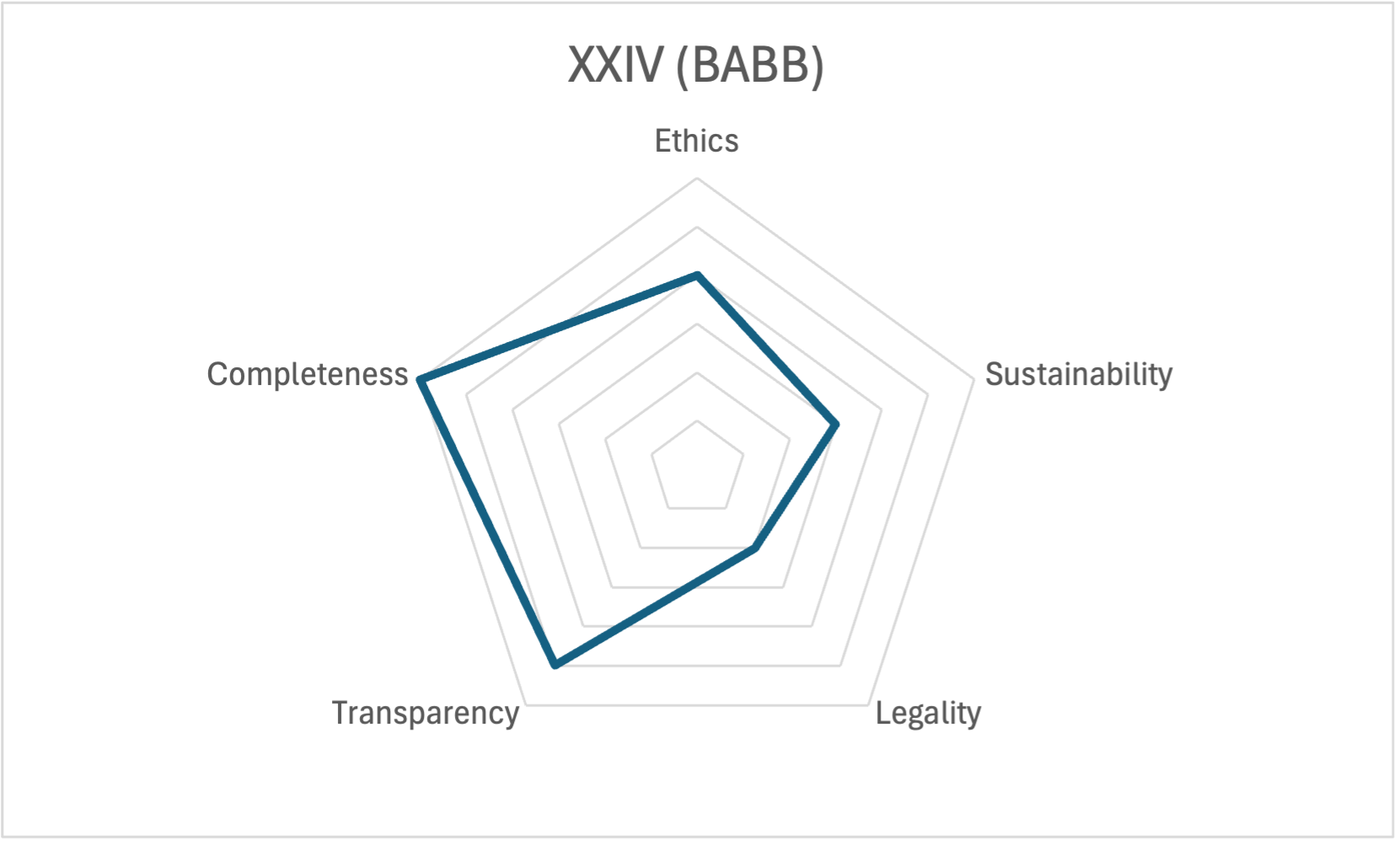
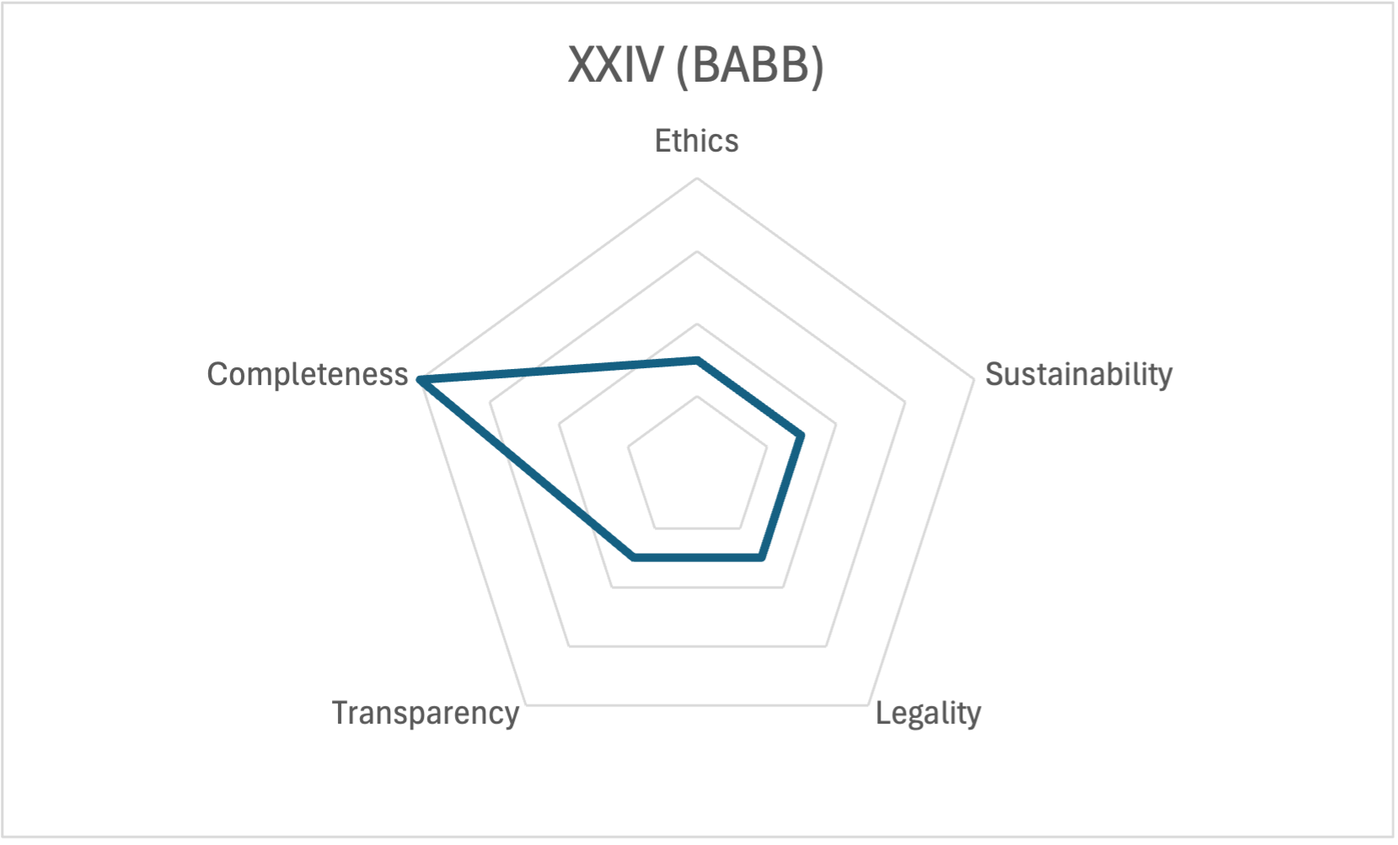
Add files via upload

Changed region(s): [[0.3074, 0.2782, 0.6456, 0.8036]]

diff --git a/index.html b/index.html
@@ -22,9 +22,10 @@ A major violent conflict has developed, which is mediated through the world wide
 
 You are an employee at the Netherlands Institute for War, Holocaust and Genocide Studies (NIOD) and have been tasked with setting up a collection of web-based materials related to this conflict.
 
-In this simulation, you get to make strategic decisions around the scope, design and organization of the web archive. 
+In this simulation, you get to make strategic decisions around the scope, design and organization of the web archive. The point of this simulation is not to create the perfect or complete archive, but to showcase how different decisions can alter what type of collection is created and what consequences that can have for the institution and its values. 
 
-These decisions do not merely determine what is preserved, but shape what kind of archive is created. Your choices directly affect the following institutional values: 
+Your choices therefore affect the following institutional values: 
+
 
 * (text-colour:red)[Ethics]
 * (text-colour:orange)[Sustainability] 
@@ -57,6 +58,7 @@ Based on these conflicting precedents, you have to start determining a scope for
 * Wider variety 
 * Outside of legal framework + less manageable
 </tw-passagedata><tw-passagedata pid="3" name="II" tags="" position="350,350" size="100,100">(set: $sustainability to $sustainability + 2) (set: $legality to $legality + 2) (set: $completeness to $completeness - 2)
+
 (text-colour:orange)[Sustainability:] +2, (text-colour:yellow)[Legality:] +2, (text-colour:blue)[Completeness:] -2
 
 (text-colour:red)[Ethics:] $ethics, (text-colour:orange)[Sustainability:] $sustainability, (text-colour:yellow)[Legality:] $legality, (text-colour:green)[Transparency:] $transparency, (text-colour:blue)[Completeness:] $completeness
@@ -64,17 +66,18 @@ Based on these conflicting precedents, you have to start determining a scope for
 &#39;&#39;//Collection method//&#39;&#39;
 
 You have chosen a cautious and institutionally aligned approach. Your web-archive is already beginning to take shape: you have prioritized sustainability and adherence to legal frameworks and are selective about what type of narratives and voices are to be included.  
-
 Now that you have set your scope, it is time to start collecting. You have access to the following options: 
 
 
-[[A: You choose to set up a web-crawler that tracks, captures and preserves the websites of the government and news-organizations that you wish to archive. The crawler captures relevant webpages based on keywords used within a predetermined period.  -&gt;III]]  
+[[A: You choose to set up a web-crawler that tracks, captures and preserves the websites  you wish to archive. The crawler captures webpages based on keywords used within a predetermined period. -&gt;III]]  
 * Cost-effective (less human labor)
 * Possible blind spots and missing out on materials
+* Black-box dilemma 
 
-[[B: You choose to make a curated collection, which is decided upon by human actors within your department. -&gt;X]]
+[[B: You choose to make a curated collection, which is decided upon by human actors within your department, who document the process in the form of a data envelope -&gt;X]]
 * Requires structured workflows, possible blind spots and biases
 * More curatorial selectivity and adaptability
+* 
 
 
 
@@ -94,26 +97,26 @@ You are however more vulnerable to legal threats due to the precarious position 
 
 You are now faced with a decision of how you want to collect these materials. 
 
-[[A: You choose to emphasize a technical method by developing a web-crawler that captures websites you wish to archive. The crawler captures based on keywords used on predetermined website within a predetermined period.-&gt;XVIII]]
-* Cost-effective (Less human labor)
-* Possible blind spots &amp; possibly missing out on materials
 
-[[B: You choose to emphasize a human-centered approach by establishing a curated collection, which is decide upon by human actors within you department.-&gt;XXV]]
-* Requires structured workflows, subject to blind spots and biases
-* More curatioral selectivity and adaptability
-</tw-passagedata><tw-passagedata pid="5" name="III" tags="" position="150,325" size="100,100">(set: $sustainability to $sustainability +1) (set: $transparency to $transparency +1) (set: $completeness to $completeness -1)
+[[A: You choose to set up a web-crawler that tracks, captures and preserves the websites  you wish to archive. The crawler captures relevant webpages based on keywords used within a predetermined period.  -&gt;XVIII]]  
+* Cost-effective (less human labor)
+* Possible blind spots and missing out on materials
+* Black-box dilemma 
 
-(text-colour:orange)[Sustainability:] +1, (text-colour:green)[Transparency:] +1 (text-colour:blue)[Completeness:] -1
+[[B: You choose to make a curated collection, which is decided upon by human actors within your department, who document the process in the form of a data envelope -&gt;XXV]]
+* Requires structured workflows, possible blind spots and biases
+* More curatorial selectivity and adaptability
+* Transparency</tw-passagedata><tw-passagedata pid="5" name="III" tags="" position="150,325" size="100,100">(set: $ethics to $ethics -1) (set: $sustainability to $sustainability +1) (set: $transparency to $transparency -1) (set: $completeness to $completeness +1)
+
+(text-colour:red)[ethics] -1, (text-colour:orange)[Sustainability:] +1, (text-colour:green)[Transparency:] -1 (text-colour:blue)[Completeness:] +1
 
 (text-colour:red)[Ethics:] $ethics, (text-colour:orange)[Sustainability:] $sustainability, (text-colour:yellow)[Legality:] $legality, (text-colour:green)[Transparency:] $transparency, (text-colour:blue)[Completeness:] $completeness
 
 &#39;&#39;//Who shapes the archive?//&#39;&#39;
 
-You have chosen to set up a web-crawler that captures relevant webpages. The collection process is now systematic, rule-based and largely automated. 
+You have chosen to set up a web-crawler that captures relevant webpages. The collection process is now systematic, rule-based and largely automated. (fast-paced) 
 
 However, webpages are continually updated, deleted, or disappear behind paywalls in between crawls. You are unable to capture every version or change made. 
-
-Yet, you are able to document your choices very well, thereby ameliorating transparency in the choices you have made. Equally, due to the systematic method of acquisition the manageability and sustainability of your collection improves. 
 
 The next question also relates to the institutional shape of your collection, namely how will the collection grow over time, and who gets to help shape it? 
 
@@ -126,9 +129,9 @@ The next question also relates to the institutional shape of your collection, na
 * More inclusive &amp; context-rich, harder to sustainably manage
 
  
-</tw-passagedata><tw-passagedata pid="6" name="X" tags="" position="525,325" size="100,100">(set: $ethics to $ethics +1) (set: $sustainability to $sustainability -1) (set: $transparency to $transparency -1) (set: $completeness to $completeness +1)
+</tw-passagedata><tw-passagedata pid="6" name="X" tags="" position="525,325" size="100,100">(set: $ethics to $ethics +1) (set: $sustainability to $sustainability -1) (set: $transparency to $transparency +1) (set: $completeness to $completeness -1)
 
-(text-colour:red)[Ethics:] +1, (text-colour:orange)[Sustainability:] -1, (text-colour:green)[Transparency:] -1, (text-colour:blue)[Completeness] +1 
+(text-colour:red)[Ethics:] +1, (text-colour:orange)[Sustainability:] -1, (text-colour:green)[Transparency:] +1, (text-colour:blue)[Completeness] -1 
 
 (text-colour:red)[Ethics:] $ethics, (text-colour:orange)[Sustainability:] $sustainability, (text-colour:yellow)[Legality:] $legality, (text-colour:green)[Transparency:] $transparency, (text-colour:blue)[Completeness:] $completeness
 
@@ -149,11 +152,11 @@ Your decisions have led you to a collection that foregrounds openness and accuou
 
 Yet, your collection remains somewhat vulnerable to legal threats. Additionally, there is little representational variety within your collection. 
 
-Now that you have come to the end of the simulation, how do you feel about the archive you have created? Would you have made different decisions, or are there other possibilities left unexplored? 
+Now that you have come to the end of the simulation, how do you feel about the archive you have created? Would you have made different decisions, or are there other possibilities left unexplored? Do you agree with your scores, or would you have valued your decisions differently? 
 
-&lt;img class=&quot;tw-center&quot; src=&quot;graphs/VIII.png&quot;&gt;</tw-passagedata><tw-passagedata pid="8" name="IV" tags="" position="150,175" size="100,100">(set: $ethics to $ethics -1)(set: $sustainability to $sustainability +1)(set: $legality to $legality +1)(set: $completeness to $completeness +1)
+&lt;img class=&quot;tw-center&quot; src=&quot;graphs/VIII.png&quot;&gt;</tw-passagedata><tw-passagedata pid="8" name="IV" tags="" position="175,175" size="100,100">(set: $ethics to $ethics -1)(set: $sustainability to $sustainability +1) (set: $completeness to $completeness +1)
 
-(text-colour:red)[Ethics:] -1, (text-colour:orange)[Sustainability:] +1, (text-colour:yellow)[Legality:] +1, (text-colour:blue)[Completeness:] +1
+(text-colour:red)[Ethics:] -1, (text-colour:orange)[Sustainability:] +1, (text-colour:blue)[Completeness:] +1
 
 (text-colour:red)[Ethics:] $ethics, (text-colour:orange)[Sustainability:] $sustainability, (text-colour:yellow)[Legality:] $legality, (text-colour:green)[Transparency:] $transparency, (text-colour:blue)[Completeness:] $completeness
 
@@ -163,39 +166,39 @@ You have chosen to build connections with other institutions that can meaningful
 
 Your final decision is related to the accessibility and participatory practices that you wish to implement:
 
-[[A: You make the collection freely available online and focus your descriptive work on contextualizing the content itself.-&gt;V]]
+[[A: You make the collection freely available online. -&gt;V]]
 * High visibility and societal impact
 * Take on full legal, ethical and political responsibility for access and re-use
 * Manageable through contextualization of content
 
-[[B: You limit access to the archive through a request system, whereby users have to  motivate their interest in gaining access. You focus your documentation on how and why the collection was built.-&gt;VI]]
+[[B: You limit access to the archive through a request system, whereby users motivate their interest in gaining access. -&gt;VI]]
 * Decreases legal, ethical and political complaints
 * Restricts ease of access, hinders visibility
-* Transparent in selection and acquisition strategies
-</tw-passagedata><tw-passagedata pid="9" name="VII" tags="" position="300,175" size="100,100">(set: $ethics to $ethics +1) (set: $sustainability to $sustainability -1) (set: $legality to $legality -1) (set: $transparency to $transparency +1) (set: $completeness to $completeness +1) 
 
-(text-colour:red)[Ethics:] +1, (text-colour:orange)[Sustainability:] -1, (text-colour:yellow)[Legality:] -1, (text-colour:green)[Transparency:] +1, (text-colour:blue)[Completeness:] +1
+</tw-passagedata><tw-passagedata pid="9" name="VII" tags="" position="350,225" size="100,100">(set: $ethics to $ethics +1) (set: $sustainability to $sustainability -1) (set: $transparency to $transparency +1) (set: $completeness to $completeness +1) 
+
+(text-colour:red)[Ethics:] +1, (text-colour:orange)[Sustainability:] -1, (text-colour:green)[Transparency:] +1, (text-colour:blue)[Completeness:] +1
 
 (text-colour:red)[Ethics:] $ethics, (text-colour:orange)[Sustainability:] $sustainability, (text-colour:yellow)[Legality:] $legality, (text-colour:green)[Transparency:] $transparency, (text-colour:blue)[Completeness:] $completeness 
 
 //&#39;&#39;Accessibility &amp; Metadata&#39;&#39;//
 
-You have elected to place more of an emphasis on participatory methods. You try your hannd at organizing workshops and interviews with communitiy members that are affected by the conflict. 
+You have elected to place more of an emphasis on participatory methods. You try your hand at organizing workshops and interviews with community members that are affected by the conflict. 
 
 While you have taken on more ethical responsibility in terms of providing a variety of voices that help shape the archive, the collection might become harder to manage due to the amount of content that you would have to contextualize.
 
 You are now faced with your last decision, which relates to your collection’s accessibility and metadata descriptions.
 
 
-[[A: You make the collection freely available online and focus your descriptive work on contextualizing the content itself. -&gt;VIII]]
+[[A: You make the collection freely available online. -&gt;VIII]]
 * High visibility and societal impact
 * Take on full legal, ethical and political responsibility for access and re-use
 * Manageable through contextualization of content
 
-[[B: You limit access to the archive through a request system, whereby users motivate their interest in gaining access. You focus your documentation on how and why the collection was built.-&gt;IX]]
+[[B: You limit access to the archive through a request system, whereby users motivate their interest in gaining access. -&gt;IX]]
 * Decreases legal, ethical and political complaints
 * Restricts ease of access, hinders visibility
-* Transparent in selection and acquisition strategies</tw-passagedata><tw-passagedata pid="10" name="V" tags="" position="25,175" size="100,100">(set: $ethics to $ethics +1) (set: $sustainability to $sustainability -1) (set: $legality to $legality -1) (set: $transparency to $transparency +1)
+* </tw-passagedata><tw-passagedata pid="10" name="V" tags="" position="25,175" size="100,100">(set: $ethics to $ethics +1) (set: $sustainability to $sustainability -1) (set: $legality to $legality -1) (set: $transparency to $transparency +1)
 
 (text-colour:red)[Ethics:] +1, (text-colour:orange)[Sustainability:] -1, (text-colour:yellow)[Legality:] -1, (text-colour:green)[Transparency:] +1
 
@@ -233,31 +236,42 @@ You have built an archive grounded in legal caution and institutional order. Whi
 
 Now that you have come to the end of the simulation, how do you feel about the archive you have created? Would you have made different decisions, or are there other possibilities left unexplored? 
 
-&lt;img class=&quot;tw-center&quot; src=&quot;graphs/VI.png&quot;&gt;</tw-passagedata><tw-passagedata pid="13" name="XI" tags="" position="550,150" size="100,100">(set: $ethics to $ethics -1)(set: $sustainability to $sustainability +1)(set: $legality to $legality +1)(set: $completeness to $completeness +1)
+&lt;img class=&quot;tw-center&quot; src=&quot;graphs/VI.png&quot;&gt;</tw-passagedata><tw-passagedata pid="13" name="XI" tags="" position="550,150" size="100,100">(set: $ethics to $ethics -1)(set: $sustainability to $sustainability +1) (set: $completeness to $completeness +1)
 
-(text-colour:red)[Ethics:] -1, (text-colour:orange)[Sustainability:] +1, (text-colour:yellow)[Legality:] +1, (text-colour:blue)[Completeness:] +1
+(text-colour:red)[Ethics:] -1, (text-colour:orange)[Sustainability:] +1, (text-colour:blue)[Completeness:] +1
 
 (text-colour:red)[Ethics:] $ethics, (text-colour:orange)[Sustainability:] $sustainability, (text-colour:yellow)[Legality:] $legality, (text-colour:green)[Transparency:] $transparency, (text-colour:blue)[Completeness:] $completeness
 
 //&#39;&#39;Bold Text&#39;&#39;//
 
-[[A: -&gt;XII]]
 
+[[A: You make the collection freely available online. -&gt;XII]]
+* High visibility and societal impact
+* Take on full legal, ethical and political responsibility for access and re-use
+* Manageable through contextualization of content
 
-[[B -&gt;XIII]]
-</tw-passagedata><tw-passagedata pid="14" name="XIV" tags="" position="675,375" size="100,100">(set: $ethics to $ethics +1)(set: $sustainability to $sustainability -1)(set: $legality to $legality -1)(set: $transparency to $transparency +1)(set: $completeness to $completeness +1)
+[[B: You limit access to the archive through a request system, whereby users motivate their interest in gaining access. -&gt;XIII]]
+* Decreases legal, ethical and political complaints
+* Restricts ease of access, hinders visibility
+* </tw-passagedata><tw-passagedata pid="14" name="XIV" tags="" position="675,375" size="100,100">(set: $ethics to $ethics +1) (set: $sustainability to $sustainability -1) (set: $transparency to $transparency +1) (set: $completeness to $completeness +1)
 
-(text-colour:red)[Ethics:] +1, (text-colour:orange)[Sustainability:] -1, (text-colour:yellow)[Legality:] -1, (text-colour:green)[Transparency:] +1, (text-colour:blue)[Completeness:] +1. 
+(text-colour:red)[Ethics:] +1, (text-colour:orange)[Sustainability:] -1, (text-colour:green)[Transparency:] +1, (text-colour:blue)[Completeness:] +1. 
 
 
 (text-colour:red)[Ethics:] $ethics, (text-colour:orange)[Sustainability:] $sustainability, (text-colour:yellow)[Legality:] $legality, (text-colour:green)[Transparency:] $transparency, (text-colour:blue)[Completeness:] $completeness 
 
 //&#39;&#39;Bold Text&#39;&#39;//
 
-[[A -&gt;XV]]
 
-[[B -&gt;XVI]]
-</tw-passagedata><tw-passagedata pid="15" name="XV" tags="" position="850,325" size="100,100">(set: $ethics to $ethics +1) (set: $sustainability to $sustainability -1) (set: $legality to $legality -1) (set: $transparency to $transparency +1)
+[[A: You make the collection freely available online. -&gt;XV]]
+* High visibility and societal impact
+* Take on full legal, ethical and political responsibility for access and re-use
+* Manageable through contextualization of content
+
+[[B: You limit access to the archive through a request system, whereby users motivate their interest in gaining access. -&gt;XVI]]
+* Decreases legal, ethical and political complaints
+* Restricts ease of access, hinders visibility
+* </tw-passagedata><tw-passagedata pid="15" name="XV" tags="" position="850,325" size="100,100">(set: $ethics to $ethics +1) (set: $sustainability to $sustainability -1) (set: $legality to $legality -1) (set: $transparency to $transparency +1)
 
 (text-colour:red)[Ethics:] +1, (text-colour:orange)[Sustainability:] -1, (text-colour:yellow)[Legality:] -1, (text-colour:green)[Transparency:] +1
 
@@ -291,9 +305,9 @@ Now that you have come to the end of the simulation, how do you feel about the a
 
 Now that you have come to the end of the simulation, how do you feel about the archive you have created? Would you have made different decisions, or are there other possibilities left unexplored? 
 
-&lt;img class=&quot;tw-center&quot; src=&quot;graphs/XIII.png&quot;&gt;</tw-passagedata><tw-passagedata pid="18" name="XVIII" tags="" position="450,725" size="100,100">(set: $sustainability to $sustainability +1) (set: $transparency to $transparency +1) (set: $completeness to $completeness -1)
+&lt;img class=&quot;tw-center&quot; src=&quot;graphs/XIII.png&quot;&gt;</tw-passagedata><tw-passagedata pid="18" name="XVIII" tags="" position="450,725" size="100,100">(set: $ethics to $ethics -1) (set: $sustainability to $sustainability +1) (set: $transparency to $transparency -1) (set: $completeness to $completeness +1) 
 
-(text-colour:orange)[Sustainability:] +1, (text-colour:green)[Transparency:] +1 (text-colour:blue)[Completeness:] -1
+(text-colour:red)[Ethics:] -1, (text-colour:orange)[Sustainability:] +1, (text-colour:green)[Transparency:] -1 (text-colour:blue)[Completeness:] +1
 
 (text-colour:red)[Ethics:] $ethics, (text-colour:orange)[Sustainability:] $sustainability, (text-colour:yellow)[Legality:] $legality, (text-colour:green)[Transparency:] $transparency, (text-colour:blue)[Completeness:] $completeness
 
@@ -316,9 +330,9 @@ You are now faced with how your collection is expanded upon and most noteably, w
 * Inviting people for workshops &amp; interviews
 * More inclusive &amp; context-rich, harder to sustainably manage
 
-</tw-passagedata><tw-passagedata pid="19" name="XXV" tags="" position="675,625" size="100,100">(set: $ethics to $ethics +1) (set: $sustainability to $sustainability -1) (set: $transparency to $transparency -1) (set: $completeness to $completeness +1)
+</tw-passagedata><tw-passagedata pid="19" name="XXV" tags="" position="675,625" size="100,100">(set: $ethics to $ethics +1) (set: $sustainability to $sustainability -1) (set: $transparency to $transparency +1) (set: $completeness to $completeness -1)
 
-(text-colour:red)[Ethics:] +1, (text-colour:orange)[Sustainability:] -1, (text-colour:green)[Transparency:] -1, (text-colour:blue)[Completeness] +1 
+(text-colour:red)[Ethics:] +1, (text-colour:orange)[Sustainability:] -1, (text-colour:green)[Transparency:] +1, (text-colour:blue)[Completeness] -11 
 
 (text-colour:red)[Ethics:] $ethics, (text-colour:orange)[Sustainability:] $sustainability, (text-colour:yellow)[Legality:] $legality, (text-colour:green)[Transparency:] $transparency, (text-colour:blue)[Completeness:] $completeness
 
@@ -328,36 +342,9 @@ You are now faced with how your collection is expanded upon and most noteably, w
 [[A -&gt;XXVI]]
 
 [[B -&gt;XXIX]]
-</tw-passagedata><tw-passagedata pid="20" name="XIX" tags="" position="375,875" size="100,100">(set: $ethics to $ethics -1)(set: $sustainability to $sustainability +1)(set: $legality to $legality +1)(set: $completeness to $completeness +1)
+</tw-passagedata><tw-passagedata pid="20" name="XIX" tags="" position="375,875" size="100,100">(set: $ethics to $ethics -1)(set: $sustainability to $sustainability +1) (set: $completeness to $completeness +1)
 
-(text-colour:red)[Ethics:] -1, (text-colour:orange)[Sustainability:] +1, (text-colour:yellow)[Legality:] +1, (text-colour:blue)[Completeness:] +1
-
-(text-colour:red)[Ethics:] $ethics, (text-colour:orange)[Sustainability:] $sustainability, (text-colour:yellow)[Legality:] $legality, (text-colour:green)[Transparency:] $transparency, (text-colour:blue)[Completeness:] $completeness
-
-//&#39;&#39;Bold Text&#39;&#39;//
-
-
-
-[[A: -&gt;XXI]]
-
-[[B: -&gt;XX]]
-</tw-passagedata><tw-passagedata pid="21" name="XXII" tags="" position="650,800" size="100,100">(set: $ethics to $ethics +1) (set: $sustainability to $sustainability -1) (set: $legality to $legality -1) (set: $transparency to $transparency +1) (set: $completeness to $completeness +1) 
-
-(text-colour:red)[Ethics:] +1, (text-colour:orange)[Sustainability:] -1, (text-colour:yellow)[Legality:] -1, (text-colour:green)[Transparency:] +1, (text-colour:blue)[Completeness:] +1
-
-(text-colour:red)[Ethics:] $ethics, (text-colour:orange)[Sustainability:] $sustainability, (text-colour:yellow)[Legality:] $legality, (text-colour:green)[Transparency:] $transparency, (text-colour:blue)[Completeness:] $completeness 
-
-//&#39;&#39;Bold Text&#39;&#39;//
-
-
-
-[[A -&gt;XXIII]]
-
-[[B --&gt;XXIV]]
-
-</tw-passagedata><tw-passagedata pid="22" name="XXVI" tags="" position="875,625" size="100,100">(set: $ethics to $ethics -1)(set: $sustainability to $sustainability +1)(set: $legality to $legality +1)(set: $completeness to $completeness +1)
-
-(text-colour:red)[Ethics:] -1, (text-colour:orange)[Sustainability:] +1, (text-colour:yellow)[:Legality:] +1, (text-colour:blue)[Transparency:] +1
+(text-colour:red)[Ethics:] -1, (text-colour:orange)[Sustainability:] +1, (text-colour:blue)[Completeness:] +1
 
 (text-colour:red)[Ethics:] $ethics, (text-colour:orange)[Sustainability:] $sustainability, (text-colour:yellow)[Legality:] $legality, (text-colour:green)[Transparency:] $transparency, (text-colour:blue)[Completeness:] $completeness
 
@@ -365,21 +352,74 @@ You are now faced with how your collection is expanded upon and most noteably, w
 
 
 
-[[A -&gt;XXVII]]
-[[B -&gt;XXVIII]]
-</tw-passagedata><tw-passagedata pid="23" name="XXIX" tags="" position="800,775" size="100,100">(set: $ethics to $ethics +1)(set: $sustainability to $sustainability -1)(set: $legality to $legality -1)(set: $transparency to $transparency +1)(set: $completeness to $completeness +1)
 
-(text-colour:red)[Ethics:] +1, (text-colour:orange)[Sustainability:] -1, (text-colour:yellow)[Legality:] -1, (text-colour:green)[Transparency:] +1, (text-colour:blue)[Completeness:] +1. 
+[[A: You make the collection freely available online. -&gt;XXI]]
+* High visibility and societal impact
+* Take on full legal, ethical and political responsibility for access and re-use
+* Manageable through contextualization of content
+
+[[B: You limit access to the archive through a request system, whereby users motivate their interest in gaining access. -&gt;XX]]
+* Decreases legal, ethical and political complaints
+* Restricts ease of access, hinders visibility
+* </tw-passagedata><tw-passagedata pid="21" name="XXII" tags="" position="650,800" size="100,100">(set: $ethics to $ethics +1) (set: $sustainability to $sustainability -1) (set: $transparency to $transparency +1) (set: $completeness to $completeness +1) 
+
+(text-colour:red)[Ethics:] +1, (text-colour:orange)[Sustainability:] -1, (text-colour:green)[Transparency:] +1, (text-colour:blue)[Completeness:] +1
 
 (text-colour:red)[Ethics:] $ethics, (text-colour:orange)[Sustainability:] $sustainability, (text-colour:yellow)[Legality:] $legality, (text-colour:green)[Transparency:] $transparency, (text-colour:blue)[Completeness:] $completeness 
 
 //&#39;&#39;Bold Text&#39;&#39;//
 
 
-[[A -&gt;XXX]]
 
-[[B -&gt;XXXI]]
-</tw-passagedata><tw-passagedata pid="24" name="XXVII" tags="" position="1075,650" size="100,100">(set: $ethics to $ethics +1) (set: $sustainability to $sustainability -1) (set: $legality to $legality -1) (set: $transparency to $transparency +1)
+
+
+[[A: You make the collection freely available online. -&gt;XXIII]]
+* High visibility and societal impact
+* Take on full legal, ethical and political responsibility for access and re-use
+* Manageable through contextualization of content
+
+[[B: You limit access to the archive through a request system, whereby users motivate their interest in gaining access. -&gt;XXIV]]
+* Decreases legal, ethical and political complaints
+* Restricts ease of access, hinders visibility
+* </tw-passagedata><tw-passagedata pid="22" name="XXVI" tags="" position="875,625" size="100,100">(set: $ethics to $ethics -1) (set: $sustainability to $sustainability +1) (set: $completeness to $completeness +1)
+
+(text-colour:red)[Ethics:] -1, (text-colour:orange)[Sustainability:] +1, (text-colour:blue)[Transparency:] +1
+
+(text-colour:red)[Ethics:] $ethics, (text-colour:orange)[Sustainability:] $sustainability, (text-colour:yellow)[Legality:] $legality, (text-colour:green)[Transparency:] $transparency, (text-colour:blue)[Completeness:] $completeness
+
+//&#39;&#39;Bold Text&#39;&#39;//
+
+
+
+
+[[A: You make the collection freely available online. -&gt;XXVII]]
+* High visibility and societal impact
+* Take on full legal, ethical and political responsibility for access and re-use
+* Manageable through contextualization of content
+
+[[B: You limit access to the archive through a request system, whereby users motivate their interest in gaining access. -&gt;XXVIII]]
+* Decreases legal, ethical and political complaints
+* Restricts ease of access, hinders visibility
+* </tw-passagedata><tw-passagedata pid="23" name="XXIX" tags="" position="800,775" size="100,100">(set: $ethics to $ethics +1)(set: $sustainability to $sustainability -1) (set: $transparency to $transparency +1)(set: $completeness to $completeness +1)
+
+(text-colour:red)[Ethics:] +1, (text-colour:orange)[Sustainability:] -1, (text-colour:green)[Transparency:] +1, (text-colour:blue)[Completeness:] +1. 
+
+(text-colour:red)[Ethics:] $ethics, (text-colour:orange)[Sustainability:] $sustainability, (text-colour:yellow)[Legality:] $legality, (text-colour:green)[Transparency:] $transparency, (text-colour:blue)[Completeness:] $completeness 
+
+//&#39;&#39;Bold Text&#39;&#39;//
+
+
+
+
+[[A: You make the collection freely available online. -&gt;XXX]]
+* High visibility and societal impact
+* Take on full legal, ethical and political responsibility for access and re-use
+* Manageable through contextualization of content
+
+[[B: You limit access to the archive through a request system, whereby users motivate their interest in gaining access. -&gt;XXXI]]
+* Decreases legal, ethical and political complaints
+* Restricts ease of access, hinders visibility
+* </tw-passagedata><tw-passagedata pid="24" name="XXVII" tags="" position="1075,650" size="100,100">(set: $ethics to $ethics +1) (set: $sustainability to $sustainability -1) (set: $legality to $legality -1) (set: $transparency to $transparency +1)
 
 (text-colour:red)[Ethics:] +1, (text-colour:orange)[Sustainability:] -1, (text-colour:yellow)[Legality:] -1, (text-colour:green)[Transparency:] +1
 
@@ -447,7 +487,7 @@ Now that you have come to the end of the simulation, how do you feel about the a
 
 Now that you have come to the end of the simulation, how do you feel about the archive you have created? Would you have made different decisions, or are there other possibilities left unexplored? 
 
-&lt;img class=&quot;tw-center&quot; src=&quot;graphs/XXIV.png&quot;&gt;</tw-passagedata><tw-passagedata pid="30" name="XXI" tags="" position="350,1025" size="100,100">(set: $ethics to $ethics +1) (set: $sustainability to $sustainability -1) (set: $legality to $legality -1) (set: $transparency to $transparency +1)
+&lt;img class=&quot;tw-center&quot; src=&quot;graphs/XXIV.png&quot;&gt;</tw-passagedata><tw-passagedata pid="30" name="XXI" tags="" position="175,975" size="100,100">(set: $ethics to $ethics +1) (set: $sustainability to $sustainability -1) (set: $legality to $legality -1) (set: $transparency to $transparency +1)
 
 (text-colour:red)[Ethics:] +1, (text-colour:orange)[Sustainability:] -1, (text-colour:yellow)[Legality:] -1, (text-colour:green)[Transparency:] +1
 
@@ -458,7 +498,7 @@ Now that you have come to the end of the simulation, how do you feel about the a
 
 Now that you have come to the end of the simulation, how do you feel about the archive you have created? Would you have made different decisions, or are there other possibilities left unexplored? 
 
-&lt;img class=&quot;tw-center&quot; src=&quot;graphs/XXI.png&quot;&gt;</tw-passagedata><tw-passagedata pid="31" name="XX" tags="" position="225,950" size="100,100">(set: $ethics to $ethics -1) (set: $sustainability to $sustainability +1) (set: $legality to $legality +1) (set: $transparency to $transparency -1)
+&lt;img class=&quot;tw-center&quot; src=&quot;graphs/XXI.png&quot;&gt;</tw-passagedata><tw-passagedata pid="31" name="XX" tags="" position="150,775" size="100,100">(set: $ethics to $ethics -1) (set: $sustainability to $sustainability +1) (set: $legality to $legality +1) (set: $transparency to $transparency -1)
 
 (text-colour:red)[Ethics:] -1, (text-colour:orange)[Sustainability:] +1, (text-colour:yellow)[Legality:] +1, (text-colour:green)[Transparency:] -1
 
